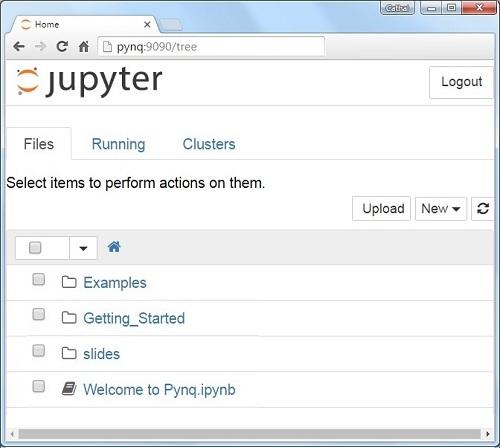
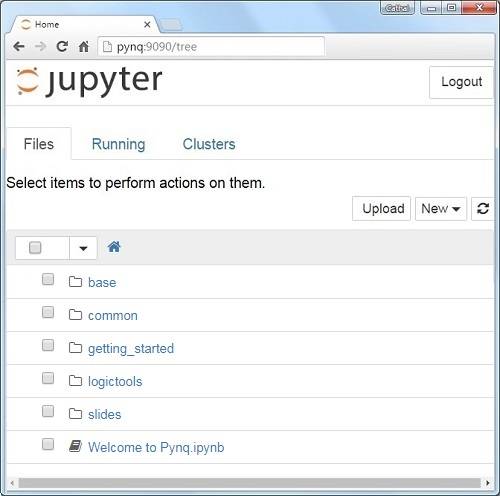
Doc images update (#433)
* Update docs

* Fix "todo" issues added in previous commits
* Updating text in base overlay section
* Update logicstools sections
  - Update descriptions of generators
  - Update code snippets
  - Update block diagram to PYNQ_Z1 version
  - Add images for operating states, FSM state diagram
* Update MicroBlaze subsystem section including image update
* Fix loading_an_overlay notebook
* Fix rst in change log
* Fix PL.py docstring indentation issue

* Docs update

* Fix typos
* Update pynq libraries
    arduino, audio, gpio, grove, logictools,
    pmod, microblaze, video
* Update pynq overlays
* Update changelog

* Doc images update

diff --git a/docs/source/pynq_libraries/gpio.rst b/docs/source/pynq_libraries/gpio.rst
@@ -4,9 +4,21 @@ GPIO: LEDs, Buttons and Switches
 The AXI GPIO controller can be used in an overlay to connect to external LEDs, 
 buttons, switches, or to connect directly to external IO. 
 
+The AXI GPIO has two channels that can be connected to two sets of up to 32-bit 
+pins. 
+
+.. image:: ../images/gpio.png
+   :align: center  
+   
+The interrupt signal, *ip2intc_irpt* from the AXI GPIO can be connected directly
+to an AXI interrupt controller, or connected through a concatenation block to 
+the controller if there is more than one interrupt in the system. 
+
+.. image:: ../images/gpio_interrupt.png
+   :align: center  
+
 PYNQ provides an ``AxiGPIO`` class to control GPIO that includes ``read()`` and 
-``write()`` methods. ``read()`` returns the current value from the GPIO, and 
-``write(val)`` writes a *value*. 
+``write()`` methods. 
 
 There are also methods to explicitly ``setdirection()``, to set the direction of
 the channel (input/output), ``setlength()``, to set the number of wires 
@@ -14,15 +26,23 @@ connected to the channel, and a ``wait_for_interrupt_async()`` to support
 interrupts on GPIO using Asyncio. See the Asyncio section for details on the 
 *_async()* method.
 
-The ``AxiGPIO`` class is automatically assigned to AXI GPIO instances discovered
- in an overlay. This allows an AXI GPIO object to be used immediately without 
- needing to import the AxiGPIO class, or set up each object before it can be 
- used.
+A Python file is provided with an Overlay which allows drivers, including the 
+``AxiGPIO`` class, to be automatically assigned to AXI GPIO instances in the 
+design. This allows an AXI GPIO object to be used immediately without 
+needing to import the AxiGPIO class, or set up each object before it can be 
+used.
+
+The mappings for the base overlay can be found in the BaseOverlay Python file:
+
+.. code-block:: console
+
+   boards\Pynq-Z1\base\base.py
 
 The ``AxiGPIO`` class should not be used direcly in Python, but can be used as a
- ready made API when creating custom overlays with AXI GPIO controllers.
+ready made API when creating custom overlays with AXI GPIO controllers.
 
-See help(AxiGPIO) for more information. 
+See the ``pynq.lib.axigpio`` module in the pynq Package section of this 
+documentation or run help(AxiGPIO) on the board for more information. 
 
 Examples
 --------

diff --git a/docs/source/pynq_overlays/base_overlay.rst b/docs/source/pynq_overlays/base_overlay.rst
@@ -34,6 +34,7 @@ This PYNQ-Z1 overlay includes the following hardware:
     * User LEDs, Switches, Pushbuttons
     * 2x PMOD IOP
     * Arduino IOP
+    * 3x Trace Analyzer (PMODA, PMODb, ARDUINO)
 
 HDMI 
 ----
@@ -80,9 +81,10 @@ HDMI devices at this resolution may work.
 Data can be streamed from the PS DRAM to the HDMI output. The HDMI Out
 controller contains framebuffers to allow for smooth display of video data.
 
-See the *PYNQ Z1 base overlay video notebook* which can be found in the getting 
-started
-directory on the board.
+Video Examples
+----------------
+
+See example video notebooks in the *base/video* directory on the board.
 
 Mic In 
 ------
@@ -101,11 +103,13 @@ Audio Out
 The audio out IP is connected to a standard 3.5mm audio jack on the board. The
 audio output is PWM driven mono.
 
-See the *pynq-z1_base_overlay_audio.ipynb* notebook in the *getting started*
-directory for examples of using the audio.
-
 For more information on the audio hardware, see the `Digilent Audio Out 
 reference for the PYNQ-Z1 board <https://reference.digilentinc.com/reference/programmable-logic/pynq-z1/reference-manual#mono_audio_output>`_
+
+Audio Example
+--------------
+
+See the audio example notebook in the *base/audio* directory on the board.
 
 User IO
 -------
@@ -132,6 +136,19 @@ but have different IP configurations to support the different sets of peripheral
 and interface pins.
 
 IOPs are covered in more detail in the next section. 
+
+Trace Analyzer
+----------------
+
+Trace Analyzer blocks are connected to the interface pins for the two Pmod IOPs,
+and the Arduino IOP. The Trace Analyzer can capture IO signals and stream the 
+data to the PS DRAM for analysis in the Python environment.
+
+Using the Python Wavedrom packager, the signals from the Trace Analyzer can be 
+displayed as waveforms in a Jupyter notebook. 
+
+See the Trace Analyzer notebook in the *base/trace* directory on the 
+board for an example on how to use the Trace Analyzer.
 
 Python API
 ----------

diff --git a/docs/source/pynq_libraries/logictools.rst b/docs/source/pynq_libraries/logictools.rst
@@ -4,6 +4,9 @@ Logictools
 There are three libraries to support the Boolean, FSM, and Digital Pattern 
 Generators in the logic tools overlay. 
 
+.. image:: ../images/logictools_bd.png
+   :align: center
+   
 There is also a Trace Analyzer library which can be used to capture and display 
 waveforms
 
